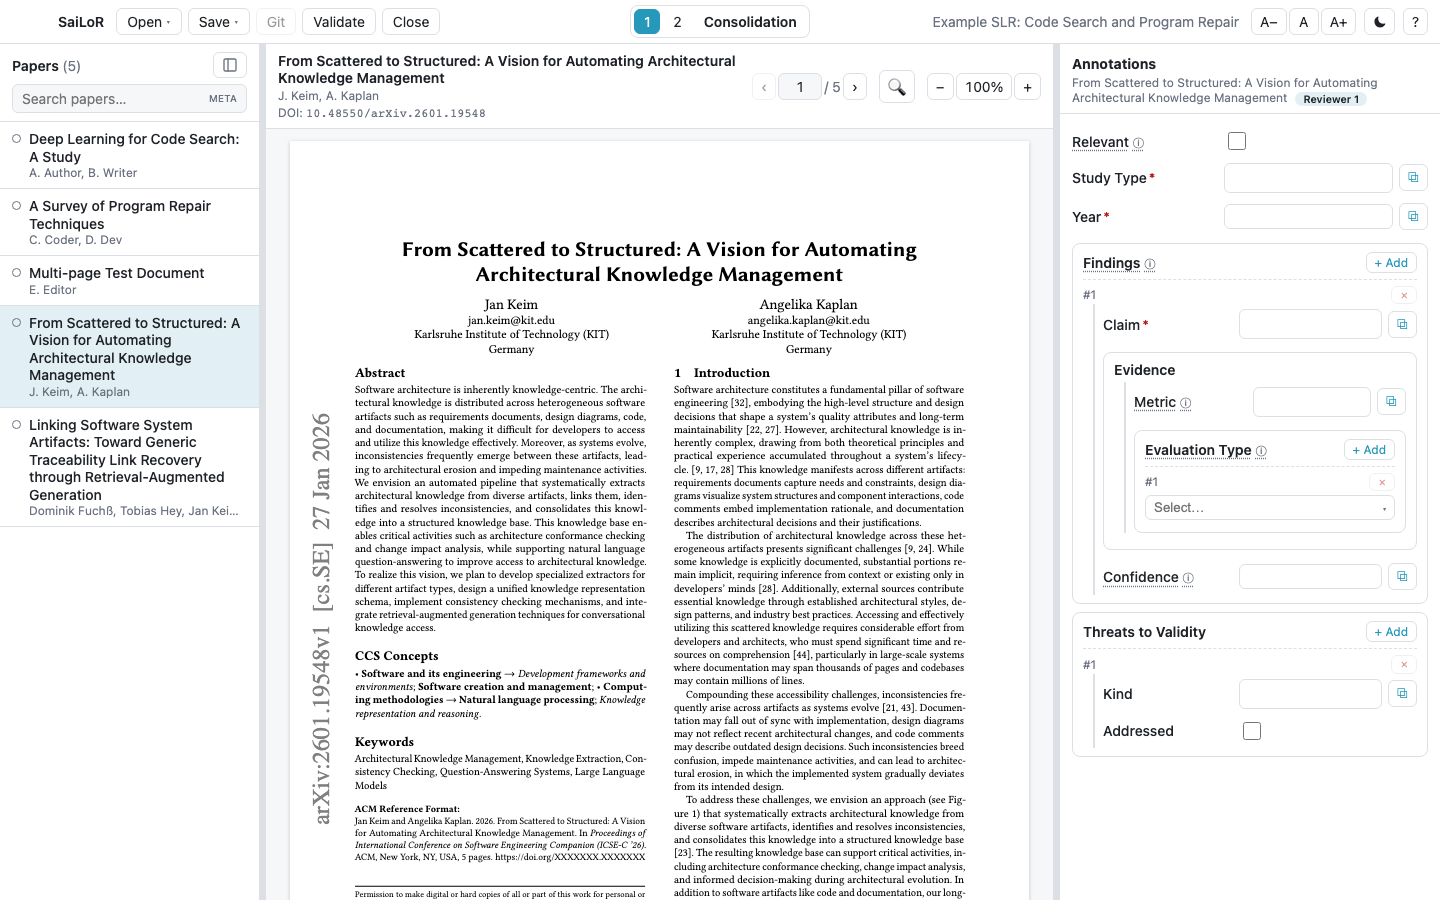
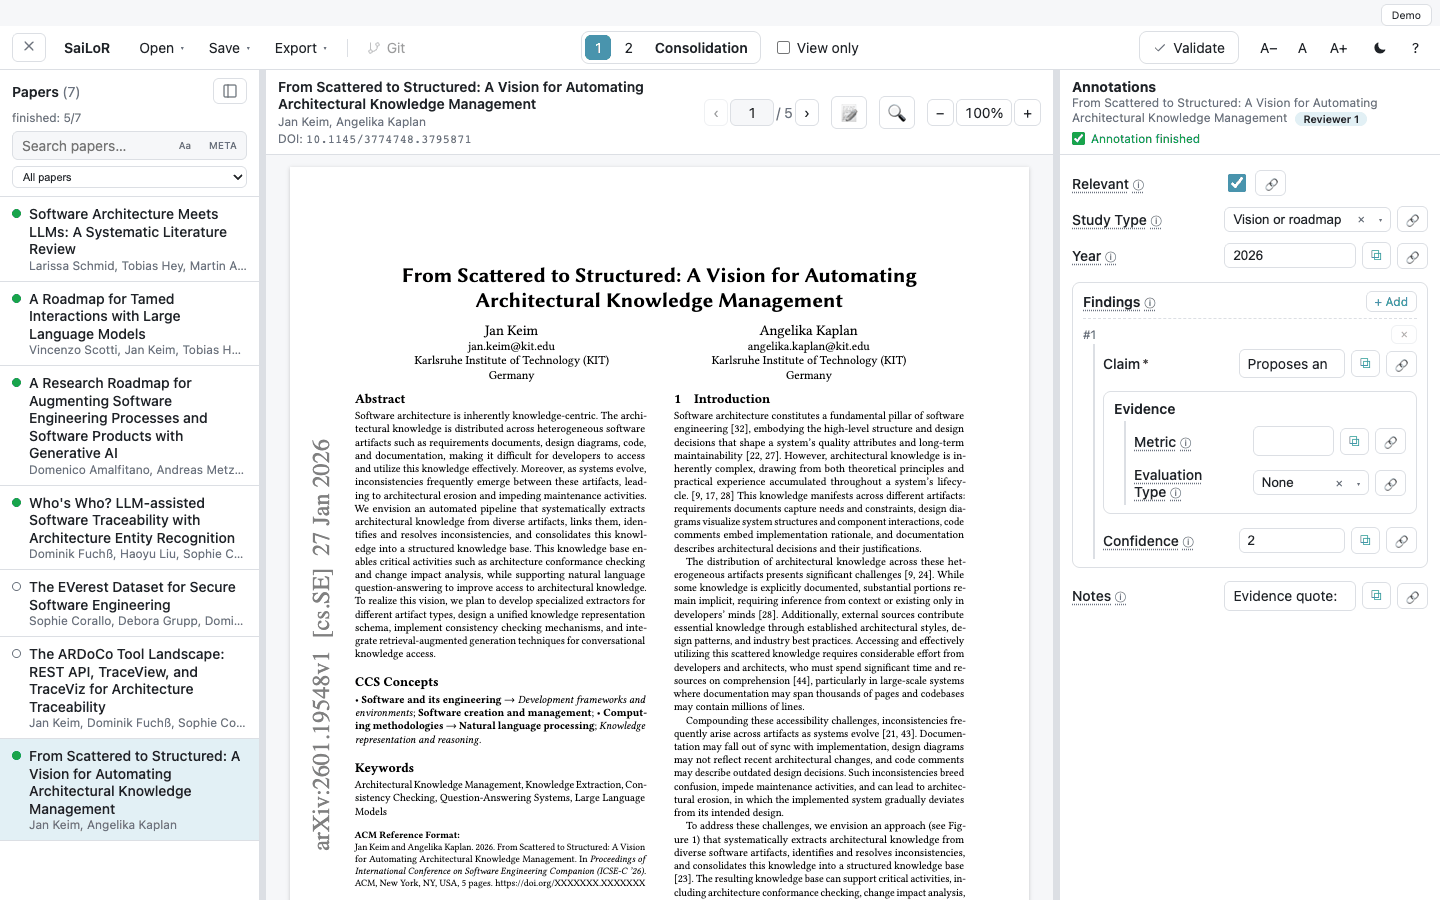
docs: show demo screenshots on the project site
Replace five placeholder images with screenshots of the online demo, and
use the user guide screenshots for the screening and Git views, which the
demo does not show. Keep the AI review placeholder until a screenshot exists.
Add lazy loading below the fold.

diff --git a/site/index.html b/site/index.html
@@ -69,9 +69,8 @@
           <li>Link a highlight or note to a field as evidence. Click it later to jump back to the PDF.</li>
           <li>Export your marks into a standalone annotated PDF.</li>
         </ul>
-        <figure class="placeholder-shot">
-          <!-- TODO screenshot: replace img/screenshot-pending.svg with img/evidence.png -->
-          <img src="img/screenshot-pending.svg" alt="Placeholder: a PDF with highlights and a sticky note, and a form field linked to a highlight as evidence." width="1440" height="900">
+        <figure>
+          <img src="img/evidence.png" alt="The PDF with a yellow highlight on one sentence. The Claim field shows one linked highlight." width="1440" height="900" loading="lazy">
           <figcaption>Highlights, notes, and evidence links next to the form.</figcaption>
         </figure>
 
@@ -83,10 +82,9 @@
           <li>&#9888; Disagreements lists every field that reviewers answered differently.</li>
           <li>&#9878; Agreement reports Cohen&rsquo;s &kappa;, Fleiss&rsquo; &kappa;, and Krippendorff&rsquo;s &alpha;.</li>
         </ul>
-        <figure class="placeholder-shot">
-          <!-- TODO screenshot: replace img/screenshot-pending.svg with img/consolidation.png -->
-          <img src="img/screenshot-pending.svg" alt="Placeholder: the Consolidation view comparing two reviewers' answers for one field, with an agreement badge." width="1440" height="900">
-          <figcaption>The Consolidation seat compares reviewers&rsquo; answers side by side.</figcaption>
+        <figure>
+          <img src="img/consolidation.png" alt="The Disagreements list for one paper. Each row shows one field, with the Reviewer 1 and Reviewer 2 answers." width="1440" height="900" loading="lazy">
+          <figcaption>The Disagreements list shows each field where the reviewers answered differently.</figcaption>
         </figure>
 
         <h3>Strict mode</h3>
@@ -109,9 +107,8 @@
           <li>A summary reports the counts for each decision and each exclusion reason.</li>
           <li>New from screening&hellip; starts the next phase from a screening project.</li>
         </ul>
-        <figure class="placeholder-shot">
-          <!-- TODO screenshot: replace img/screenshot-pending.svg with img/screening.png -->
-          <img src="img/screenshot-pending.svg" alt="Placeholder: a screening record with the title and abstract, Include and Exclude buttons, and the reason list." width="1440" height="900">
+        <figure>
+          <img src="img/screening.png" alt="A screening record with the title and abstract, Include and Exclude buttons, and the reason list." width="1440" height="900" loading="lazy">
           <figcaption>Screening decisions use the title and abstract.</figcaption>
         </figure>
 
@@ -160,10 +157,9 @@
           <li>Run read-only Cypher queries. A subset of Cypher is supported, with limits on size and run time.</li>
           <li>Queries run in a background worker, so the view stays usable.</li>
         </ul>
-        <figure class="placeholder-shot">
-          <!-- TODO screenshot: replace img/screenshot-pending.svg with img/knowledge-graph.png -->
-          <img src="img/screenshot-pending.svg" alt="Placeholder: the knowledge graph view with paper, author and keyword nodes and the text query box." width="1440" height="900">
-          <figcaption>The knowledge graph view with a text query.</figcaption>
+        <figure>
+          <img src="img/knowledge-graph.png" alt="The knowledge graph view. A read-only Cypher query finds the papers of one author, and a results table lists them." width="1440" height="900" loading="lazy">
+          <figcaption>The knowledge graph view with a read-only Cypher query.</figcaption>
         </figure>
 
         <h3>Large projects</h3>
@@ -188,9 +184,8 @@
           <li>SaiLoR backs up the branch before a merge. You can undo the last merge.</li>
           <li>Switch branches, and browse the history of the project file.</li>
         </ul>
-        <figure class="placeholder-shot">
-          <!-- TODO screenshot: replace img/screenshot-pending.svg with img/git-panel.png -->
-          <img src="img/screenshot-pending.svg" alt="Placeholder: the Git panel with a branch switcher, field-level change review, and commit controls." width="1440" height="900">
+        <figure>
+          <img src="img/git-panel.png" alt="The Git panel's field-level review. Three changed fields each have Use, Ignore and Discard buttons, and a commit message is set." width="1440" height="900" loading="lazy">
           <figcaption>Field-level review of the project&rsquo;s changes.</figcaption>
         </figure>
 
@@ -253,7 +248,8 @@
         <h2 id="try-online-title">Try it online</h2>
         <p>The <a href="./demo/">online demo</a> runs SaiLoR in your browser. Try the interface before you install the app.</p>
         <ul>
-          <li>The demo opens example projects. They use papers by Jan Keim from arXiv, and the paper <em>From Scattered to Structured</em>.</li>
+          <li>The demo opens on the paper <em>From Scattered to Structured</em>, with its PDF.</li>
+          <li>The other papers have no PDF in the demo. Each one links to its arXiv page.</li>
           <li>Nothing you do in the demo is saved.</li>
         </ul>
         <div class="note">
